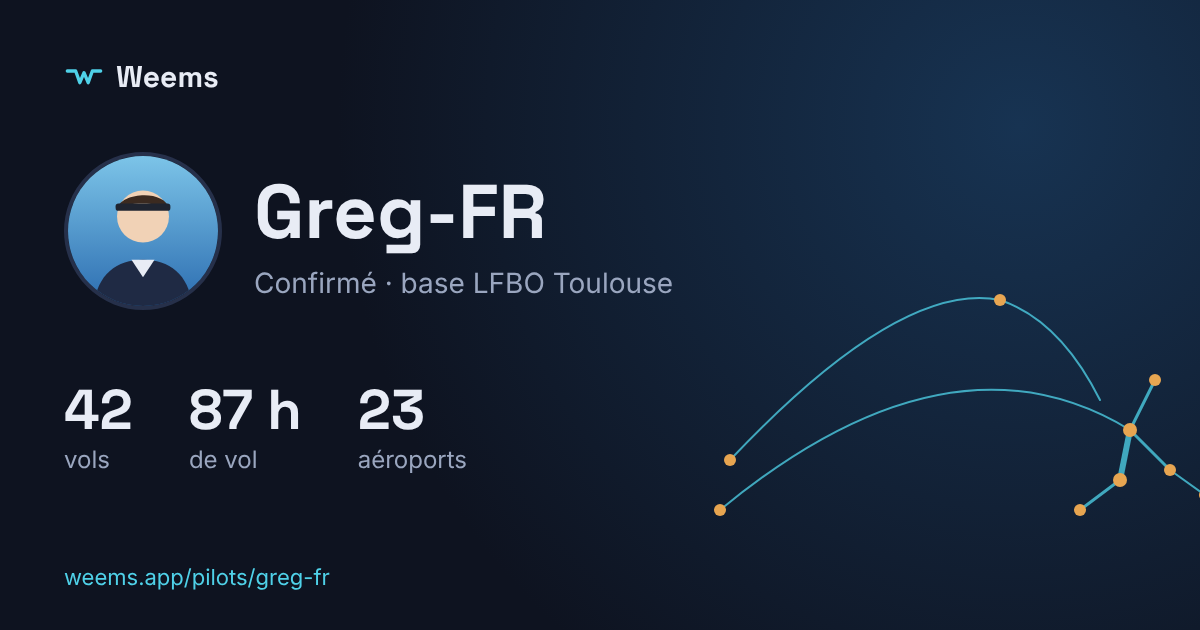
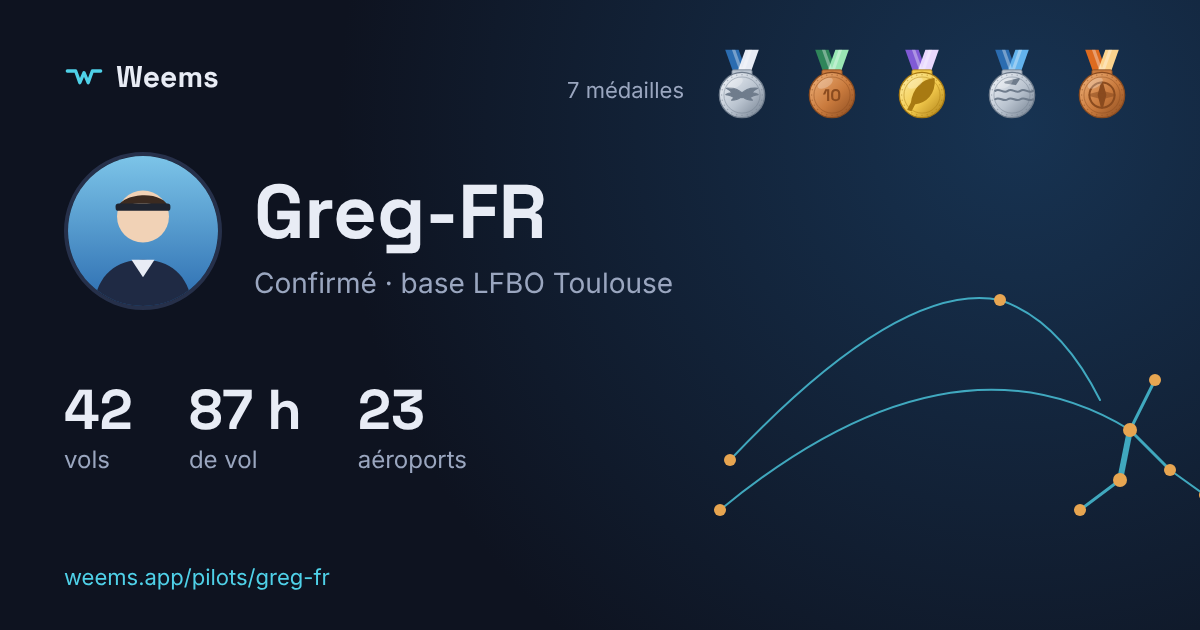
docs(j4): médailles sur l'image de partage
Claude-Session: https://claude.ai/code/session_01N46qzV3MxXmsdYZrydt2jy

diff --git a/docs/cahiers-des-charges/spec-J4-profil-public.md b/docs/cahiers-des-charges/spec-J4-profil-public.md
@@ -101,8 +101,8 @@ Textes en français et en anglais, comme le reste du site.
 
 ## 5. Référencement
 
-- Pages rendues côté serveur (déjà le cas), titre et description par page (« Greg-FR — 42 vols sur Weems »), image de partage (Open Graph) générique Weems en J4.
-- **Image de partage** (aperçu dans Discord, Facebook, forums) : générée par le site pour chaque profil, avec photo, pseudo, trois statistiques et la carte simplifiée des trajets (générateur d'images de Next.js, sans service externe).
+- Pages rendues côté serveur (déjà le cas), titre et description par page (« Greg-FR — 42 vols sur Weems »), image de partage propre à chaque profil (ci-dessous).
+- **Image de partage** (aperçu dans Discord, Facebook, forums) : générée par le site pour chaque profil, avec photo, pseudo, trois statistiques, la carte simplifiée des trajets et les cinq dernières médailles obtenues avec leur nombre total (bloc présent quand les médailles existeront, absent en J4) (générateur d'images de Next.js, sans service externe).
 
   ![Maquette de l'image de partage](img/j4-maquette-partage.png)
 
